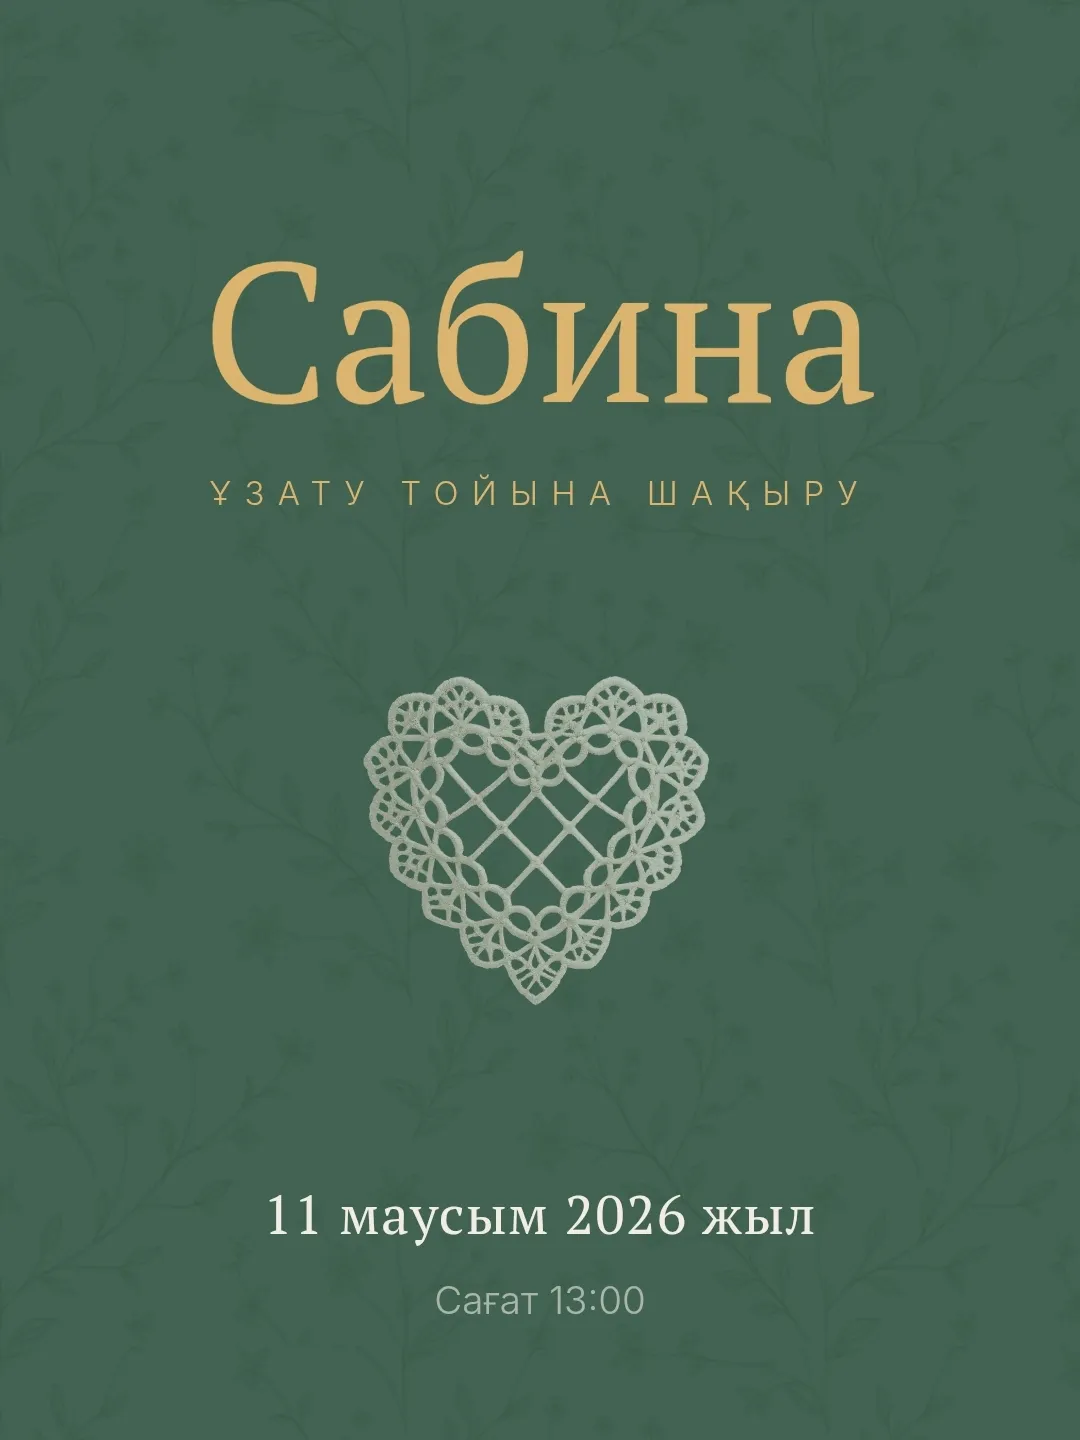
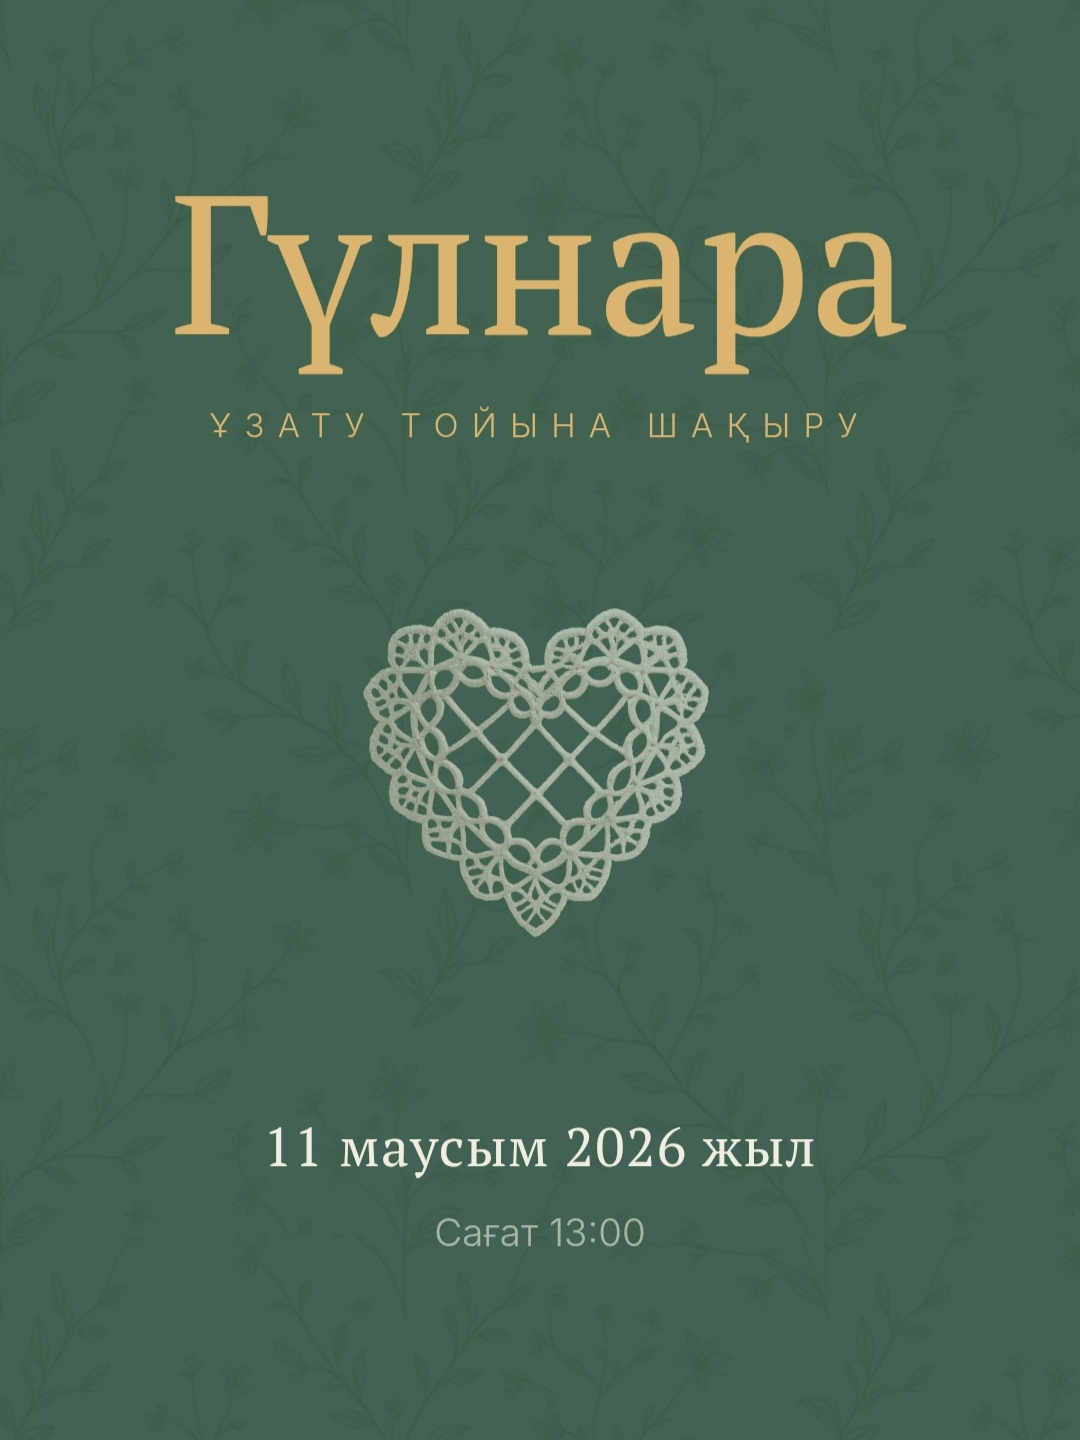
some price and photo changes

Changed region(s): [[0.1528, 0.125, 0.8556, 0.3438], [0.3361, 0.4062, 0.6722, 0.7188], [0.2444, 0.7812, 0.7639, 0.9062]]

diff --git a/src/data/templates.ts b/src/data/templates.ts
@@ -161,7 +161,7 @@ export const templates: Template[] = [
     id: "8",
     nameKey: "templates.8.name",
     descriptionKey: "templates.8.description",
-    price: 25,
+    price: 15,
     image: goldenbirthday,
     imageDesktop: goldenbirthdayDesktop, 
     link: "https://birthday-invitation.76khwmidov.workers.dev/",
@@ -186,7 +186,7 @@ export const templates: Template[] = [
     id: "10",
     nameKey: "templates.10.name",
     descriptionKey: "templates.10.description",
-    price: 20,
+    price: 15,
     image: goldenUzatu,
     imageDesktop: goldenUzatuDesktop,
     link: "https://uzatu-invitaion.netlify.app/",
